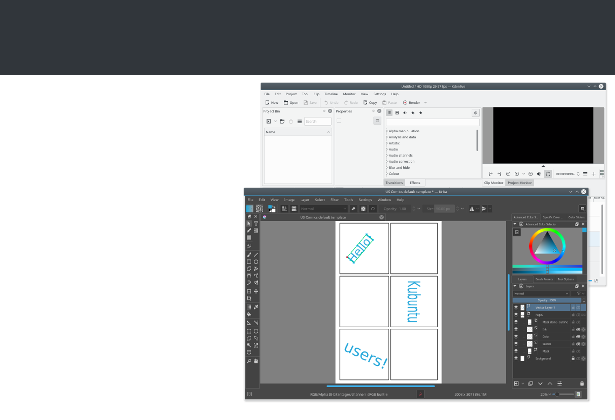
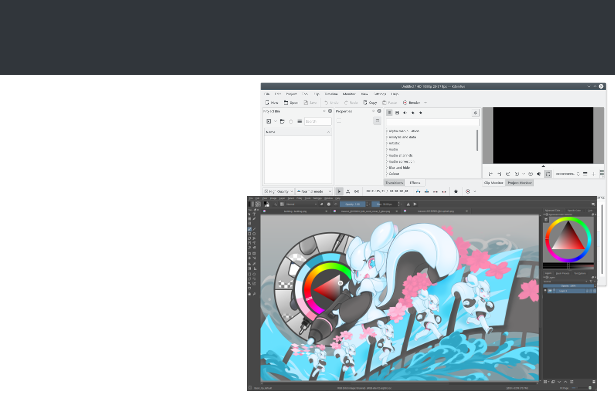
remove sponsor slide and screenshot

Changed region(s): [[0.3707, 0.4333, 0.9886, 0.9595]]

diff --git a/build/kubuntu/slides/11_Get-Help.html b/build/kubuntu/slides/11_Get-Help.html
@@ -11,10 +11,13 @@
 		<div>
 			<li>If you need help, try Help from the menu, or the
 	    Help menu in most applications.
-	    Let us know about your Kubuntu experience at <a href="http://www.kubuntu.org/community">Kubuntu Community</a>!</li>
+	    Let us know about your Kubuntu experience at <a href="http://www.kubuntu.org/community">Kubuntu Community*</a>!</li>
 	    <br/>
             <li>In addition to our extensive written help, the Kubuntu
 	    community in conjunction with the Ubuntu community, provides free
-	    technical support in person and over the Internet. Learn more at <a href="http://www.kubuntu.org/support">Kubuntu Support.</a></li>
+	    technical support in person and over the Internet. Learn more at <a href="http://www.kubuntu.org/support">Kubuntu Support**.</a></li>
+	    <br/>
+	    *  http://www.kubuntu.org/community<br/>
+	    ** http://www.kubuntu.org/support
 	    </ul>
 		</div>

diff --git a/slideshows/kubuntu/slides/11_Get-Help.html b/slideshows/kubuntu/slides/11_Get-Help.html
@@ -11,10 +11,13 @@
 		<div>
 			<li>If you need help, try Help from the menu, or the
 	    Help menu in most applications.
-	    Let us know about your Kubuntu experience at <a href="http://www.kubuntu.org/community">Kubuntu Community</a>!</li>
+	    Let us know about your Kubuntu experience at <a href="http://www.kubuntu.org/community">Kubuntu Community*</a>!</li>
 	    <br/>
             <li>In addition to our extensive written help, the Kubuntu
 	    community in conjunction with the Ubuntu community, provides free
-	    technical support in person and over the Internet. Learn more at <a href="http://www.kubuntu.org/support">Kubuntu Support.</a></li>
+	    technical support in person and over the Internet. Learn more at <a href="http://www.kubuntu.org/support">Kubuntu Support**.</a></li>
+	    <br/>
+	    *  http://www.kubuntu.org/community<br/>
+	    ** http://www.kubuntu.org/support
 	    </ul>
 		</div>

diff --git a/build/kubuntu/slides/12_Get-Involved.html b/build/kubuntu/slides/12_Get-Involved.html
@@ -19,11 +19,13 @@
 	    mold the future of Kubuntu is easy, and you are more than welcome
 	    to help out.</li>
 	    <br/>
-            <li>Look over <a href="http://docs.kubuntu.org/docs/contribute.html">Kubuntu Manual</a>
+            <li>Look over <a href="http://docs.kubuntu.org/docs/contribute.html">Kubuntu Manual*</a>
 	    and see where you might be able to help out. Remember, it is easy
 	    to get involved and the work you do will be seen by millions of
 	    people around the world.</li>
 	    <br/>
             <li>The installation will finish soon. We hope you enjoy Kubuntu!</li>
+            <br/>
+            * http://docs.kubuntu.org/docs/contribute.html
             </ul>
 		</div>

diff --git a/slideshows/kubuntu/slides/12_Get-Involved.html b/slideshows/kubuntu/slides/12_Get-Involved.html
@@ -19,11 +19,13 @@
 	    mold the future of Kubuntu is easy, and you are more than welcome
 	    to help out.</li>
 	    <br/>
-            <li>Look over <a href="http://docs.kubuntu.org/docs/contribute.html">Kubuntu Manual</a>
+            <li>Look over <a href="http://docs.kubuntu.org/docs/contribute.html">Kubuntu Manual*</a>
 	    and see where you might be able to help out. Remember, it is easy
 	    to get involved and the work you do will be seen by millions of
 	    people around the world.</li>
 	    <br/>
             <li>The installation will finish soon. We hope you enjoy Kubuntu!</li>
+            <br/>
+            * http://docs.kubuntu.org/docs/contribute.html
             </ul>
 		</div>

diff --git a/build/kubuntu/slides/index.html b/build/kubuntu/slides/index.html
@@ -44,9 +44,8 @@
 	<div><a href="08_Games.html" class="load"></a></div>
 	<div><a href="09_Accessibility.html" class="load"></a></div>
 	<div><a href="10_Discover.html" class="load"></a></div>
-	<div><a href="11_Sponsors.html" class="load"></a></div>
-	<div><a href="12_Get-Help.html" class="load"></a></div>
-	<div><a href="13_Get-Involved.html" class="load"></a></div>	
+	<div><a href="11_Get-Help.html" class="load"></a></div>
+	<div><a href="12_Get-Involved.html" class="load"></a></div>	
 
 </div>
 

diff --git a/slideshows/kubuntu/slides/index.html b/slideshows/kubuntu/slides/index.html
@@ -44,9 +44,8 @@
 	<div><a href="08_Games.html" class="load"></a></div>
 	<div><a href="09_Accessibility.html" class="load"></a></div>
 	<div><a href="10_Discover.html" class="load"></a></div>
-	<div><a href="11_Sponsors.html" class="load"></a></div>
-	<div><a href="12_Get-Help.html" class="load"></a></div>
-	<div><a href="13_Get-Involved.html" class="load"></a></div>	
+	<div><a href="11_Get-Help.html" class="load"></a></div>
+	<div><a href="12_Get-Involved.html" class="load"></a></div>	
 
 </div>
 
